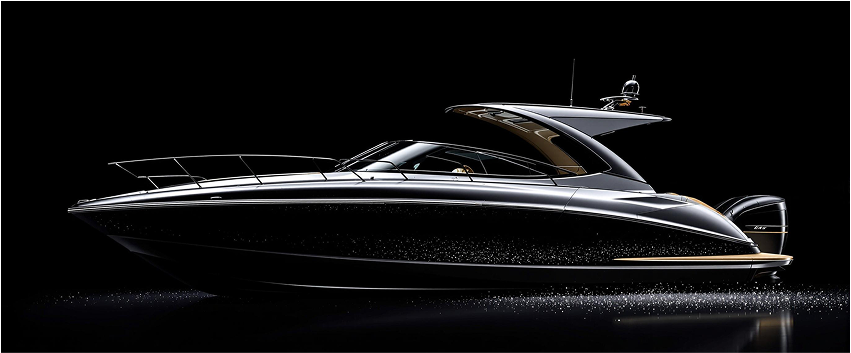
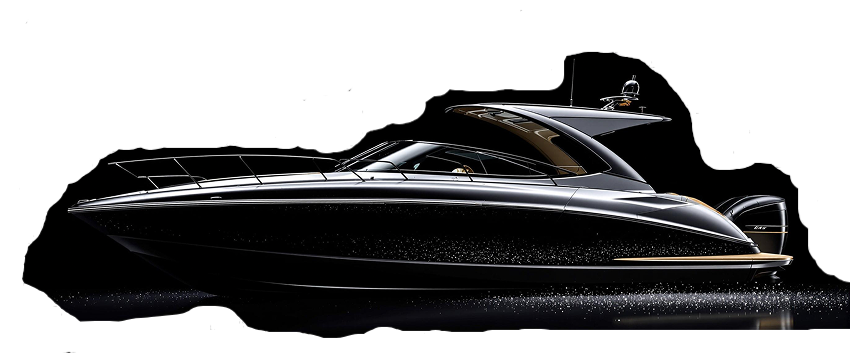
Nedovrseni commit

diff --git a/src/pages/Detailing_brodova.jsx b/src/pages/Detailing_brodova.jsx
@@ -23,11 +23,11 @@ function DetailingBrodova() {
         <>
         <div className={BrodCSS.pranje_automobila}>
             <div className={BrodCSS.naslovnica}>
-                <h1>Uvijek održavaj svoj automobil čistim</h1>
+                <h1>Neka vaš brod uvijek blista kao prvi dan</h1>
                 <img src="src\assets\brod.png" alt="auto" />
                 <p className={BrodCSS.citat}>
-                "Jer svaki auto zaslužuje više od prosjeka -
-                zaslužuje čistoću kao standard."
+                "Jer čistoća nije luksuz - to je 
+                standard koji vaš brod zaslužuje."
                 </p>
                 <button className={BrodCSS.kontakt}>
                     <Link to="/kontakt">
@@ -40,35 +40,35 @@ function DetailingBrodova() {
                 <h2>Paketi</h2>
                 <Card2 
                  src="src\assets\image2.png"
-                 title="Kemijsko čišćenje interijera"
+                 title="Dubinsko pranje i  vosak"
                  onClick={() => setShowCard(1)}
                 >
                     <p>
-                    Dubinsko usisavanje interijera,<br />
-                    Kemijsko čišćenje sjedala i tapecirunga,<br />
-                    Čišćenje i dezinfekcija svih plastičnih i kožnih površina ... 
+                    Pranje <br />
+                    Čišćenje protukliznih površina <br />
+                    Čišćenje i zaštita sjedala ...                     
                     </p>
                 </Card2>
                 <Card2 
                  src="src\assets\image2.png"
-                 title="Standardni detailing"
+                 title="Poliranje i sjaj"
                  onClick={() => setShowCard(2)}
                 >
                     <p>
-                    Dubinsko usisavanje interijera,<br />
-                    Kemijsko čišćenje sjedala i tapecirunga,<br />
-                    Čišćenje i dezinfekcija svih plastičnih i kožnih površina ...  
+                    Pranje <br />
+                    Čišćenje protukliznih površina <br />
+                    Čišćenje i zaštita sjedala ...                    
                     </p>
                 </Card2>
                 <Card2 
                  src="src\assets\image2.png"
-                 title="Kompletni detailing"
+                 title="Besprijekorno sjajno"
                  onClick={() => setShowCard(3)}
                 >
                     <p>
-                    Dubinsko usisavanje interijera,<br />
-                    Kemijsko čišćenje sjedala i tapecirunga,<br />
-                    Čišćenje i dezinfekcija svih plastičnih i kožnih površina ... 
+                    Pranje <br />
+                    čišćenje protukliznih površina <br />
+                    Čišćenje i zaštita sjedala ...
                     </p>
                 </Card2>
             </div>
@@ -76,51 +76,53 @@ function DetailingBrodova() {
         <Card3
          className={showCard == 1 ? "show_container" : "hide_container"}
          src="src\assets\image2.png"
-         title="Kemijsko čišćenje interijera"
-         cijena="120"
+         title="Dubinsko pranje i  vosak"
          onClick={() => setShowCard(0)}
         >
-            <li>Dubinsko usisivanje interijera</li>
-            <li>Kemijsko čišćenje sjedala i tapecirunga</li>
-            <li>Čišćenje i dezinfekcija svih plastičnih i kožnih površina</li>
-            <li>Osvježavanje i zaštita svih plastičnih površina</li>
-            <li>Impregnacija kožnih površina</li>
-            <li>Neutralizacija neugodnih mirisa</li>
+            <li>Pranje</li>
+            <li>Čišćenje protukliznih površina</li>
+            <li>Čišćenje i zaštita sjedala</li>
+            <li>Čišćenje pretinaca</li>
+            <li>Uklanjanje pljesnji i vlage</li>
+            <li>Poliranje inox-a</li>
+            <li>Čišćenje trupa</li>
+            <li>Čišćenje motora</li>
+            <li>Aplikacija zaštitnog voska</li>
         </Card3>
         <Card3
          className={showCard == 2 ? "show_container" : "hide_container"}
          src="src\assets\image2.png"
-         title="Standardni detail"
-         cijena="170"
+         title="Poliranje i sjaj"
          onClick={() => setShowCard(0)}
         >
-            <li>Dubinsko usisivanje interijera</li>
-            <li>Kemijsko čišćenje sjedala i tapecirunga</li>
-            <li>Čišćenje i dezinfekcija svih plastičnih i kožnih površina</li>
-            <li>Osvježavanje i zaštitasvih plastičnih površina</li>
-            <li>Neutralizacija neugodnih mirisa</li>
-            <li>Vanjsko pranje vozila</li>
-            <li>Detaljno čišćenje felgi</li>
-            <li>Njega i sjaj za gume</li>
-            <li>Impregnacija kožnih površina</li>
+            <li>Pranje</li>
+            <li>Čišćenje protukliznih površina</li>
+            <li>Čišćenje i zaštita sjedala</li>
+            <li>Čišćenje pretinaca</li>
+            <li>Uklanjanje pljesnji i vlage</li>
+            <li>Poliranje inox-a</li>
+            <li>Čišćenje trupa</li>
+            <li>Čišćenje motora</li>
+            <li>Poliranje u 2 koraka</li>
+            <li>Aplikacija zaštitnog voska</li>
         </Card3>
         <Card3
          className={showCard == 3 ? "show_container" : "hide_container"}
          src="src\assets\image2.png"
          title="Kompletni detail"
-         cijena="270"
          onClick={() => setShowCard(0)}
         >
-            <li>Dubinsko usisivanje interijera</li>
-            <li>Kemijsko čišćenje sjedala i tapecirunga</li>
-            <li>Čišćenje i dezinfekcija svih plastičnih i kožnih površina</li>
-            <li>Osvježavanje i zaštitasvih plastičnih površina</li>
-            <li>Neutralizacija neugodnih mirisa</li>
-            <li>Vanjsko pranje vozila</li>
-            <li>Detaljno čišćenje felgi</li>
-            <li>Njega i sjaj za gume</li>
-            <li>Impregnacija kožnih površina</li>
-            <li>Jednoslojno poliranje vozila</li>
+            <li>Pranje</li>
+            <li>Čišćenje protukliznih površina</li>
+            <li>Čišćenje i zaštita sjedala</li>
+            <li>Čišćenje pretinaca</li>
+            <li>Uklanjanje pljesnji i vlage</li>
+            <li>Poliranje inox-a</li>
+            <li>Čišćenje trupa</li>
+            <li>Čišćenje motora</li>
+            <li>Vodeno brušenje</li>
+            <li>Grubo poliranje u 2 koraka</li>
+            <li>Fino poliranje u 2 koraka</li>
             <li>Aplikacija zaštitnog voska</li>
         </Card3>
         </>

diff --git a/src/components/hamburger.jsx b/src/components/hamburger.jsx
@@ -1,0 +1,35 @@
+import HamCSS from "..\\css\\hamb.module.css"
+import { Link } from "react-router-dom"
+
+function Hamburger() {
+    const NavLink = ({ to, title }) => {
+        return(
+            <div className={HamCSS.link}>
+                <Link to={`/${to}`}>{title}</Link>
+                <ion-icon name="arrow-forward"></ion-icon>
+            </div>
+        )
+    }
+
+    return(
+        <div className={HamCSS.container}>
+            <div className={HamCSS.hamb_menu}>
+                <div className={HamCSS.logo}>
+                    <img src="src\assets\image1.png" alt="logo" />
+                    <div>
+                        <h3>Erni Detailing</h3>
+                        <p>ernidetailing@gmail.com</p>
+                    </div>
+                </div>
+                <div>
+                    <NavLink to={null} title="Naslovna" />
+                    <NavLink to="detailing-vozila" title="Detailing Vozila" />
+                    <NavLink to="detailing-brodova" title="Detailing brodova" />
+                    <NavLink to="kontakt" title="Kontakt" />
+                </div>
+            </div>
+        </div>        
+    )
+}
+
+export default Hamburger

diff --git a/src/css/hamb.module.css b/src/css/hamb.module.css
@@ -1,0 +1,45 @@
+
+.container
+{
+    position: fixed;
+    top: 0;
+    left: 0;
+    width: 100vw;
+    height: 100vh;
+    background-color: rgba(0, 0, 0, 0.5);
+    justify-content: center;
+    align-items: start;
+    z-index: 15;
+    .hamb_menu
+    {
+        width: 100%;
+        background-color: #020202;
+        display: flex;
+        flex-direction: column;
+        align-items: center;
+        border-bottom: 1px solid #484444;
+        .logo
+        {
+            display: flex;
+            gap: 1rem;
+            padding: 2rem;
+            border-bottom: 1px solid #484444;
+            img
+            {
+                width: 5rem;
+                height: 5rem;
+            }
+            div
+            {
+                display: flex;
+                flex-direction: column;
+                justify-content: center;
+                align-items: start;
+                p
+                {
+                    color: #FFFFFF80;
+                }
+            }
+        }
+    }
+}

diff --git a/src/components/navigation.jsx b/src/components/navigation.jsx
@@ -1,5 +1,6 @@
-import { Link, useLocation } from "react-router-dom"
 import NavCSS from "..\\css\\navigation.module.css"
+import { Link, useLocation } from "react-router-dom"
+import Hamburger from "./hamburger"
 
 function NavBar() {
     const location = useLocation()
@@ -13,6 +14,7 @@ function NavBar() {
     }
 
     return(
+        <>
         <div className={NavCSS.navBar}>
             <img src="src\assets\image1.png" alt="logo" className={NavCSS.logo} />
             <ul className={NavCSS.linkovi}>
@@ -30,6 +32,9 @@ function NavBar() {
                 </button>
             </div>
         </div>
+        <Hamburger />
+        </>
+        
     )
 }
 

diff --git a/src/components/footer.jsx b/src/components/footer.jsx
@@ -53,12 +53,12 @@ function Footer() {
                 <div className={FootCSS.subcontainer}>
                     <p style={{fontSize: "14px"}}>Erni Detailing © 2025</p>
                 </div>
-                <div className={FootCSS.subcontainer}>
+                {/* <div className={FootCSS.subcontainer}>
                     <ul className={FootCSS.bottom_links}>
                         <FooterLink tekst="Uvjeti korištenja" />
                         <FooterLink tekst="Pravila privatnosti" />
                     </ul>
-                </div>
+                </div> */}
             </div>
         </div>
     )

diff --git a/src/components/card3.jsx b/src/components/card3.jsx
@@ -10,7 +10,11 @@ function Card3({ src, title, children, onClick, cijena, className }) {
                     <ul className={CardsCSS.tekst}>
                         {children}
                     </ul>
-                    <h3>Cijena: {cijena}€</h3>
+                    {
+                        cijena ?
+                        <h3>Cijena: {cijena}€</h3> :
+                        <h3>Besplatan pregled broda i uspostava cijene</h3>
+                    }
                     <button onClick={onClick}>
                         <ion-icon name="close"></ion-icon>
                     </button>

diff --git a/src/css/cards.module.css b/src/css/cards.module.css
@@ -135,6 +135,7 @@
     justify-content: center;
     align-items: center;
     z-index: 10;
+    overflow-y: scroll;
     .card3
     {
         width: 80%;
@@ -236,6 +237,7 @@
     }
     .container
     {
+        align-items: start;
         .card3
         {
             width: 75%;
